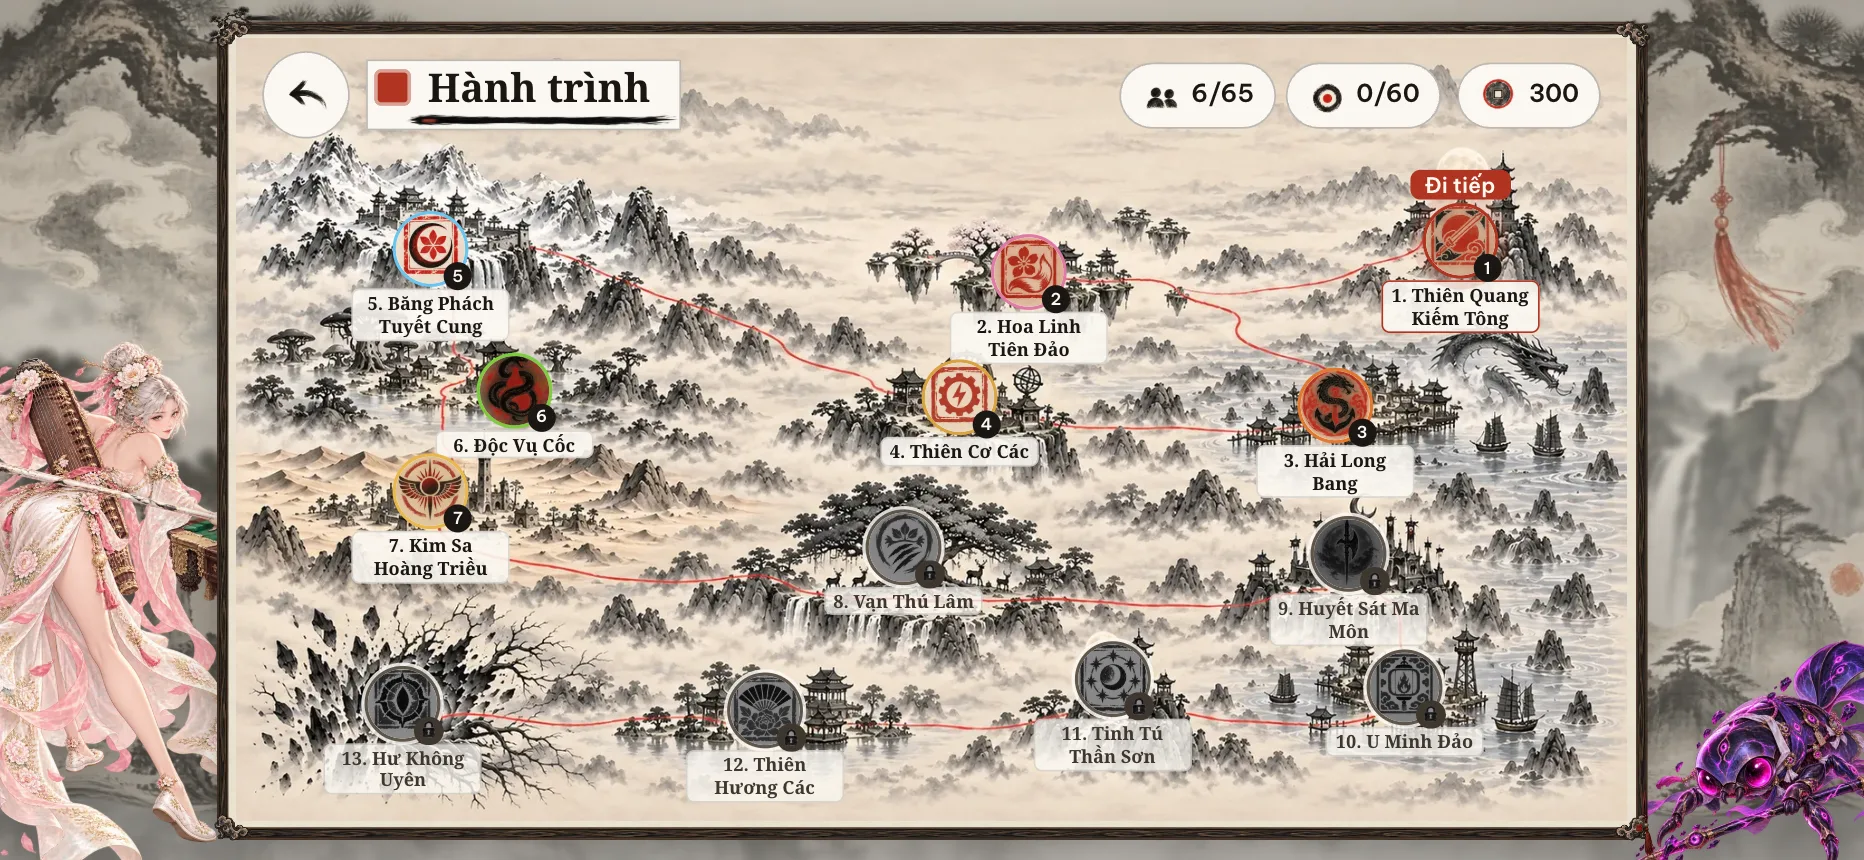
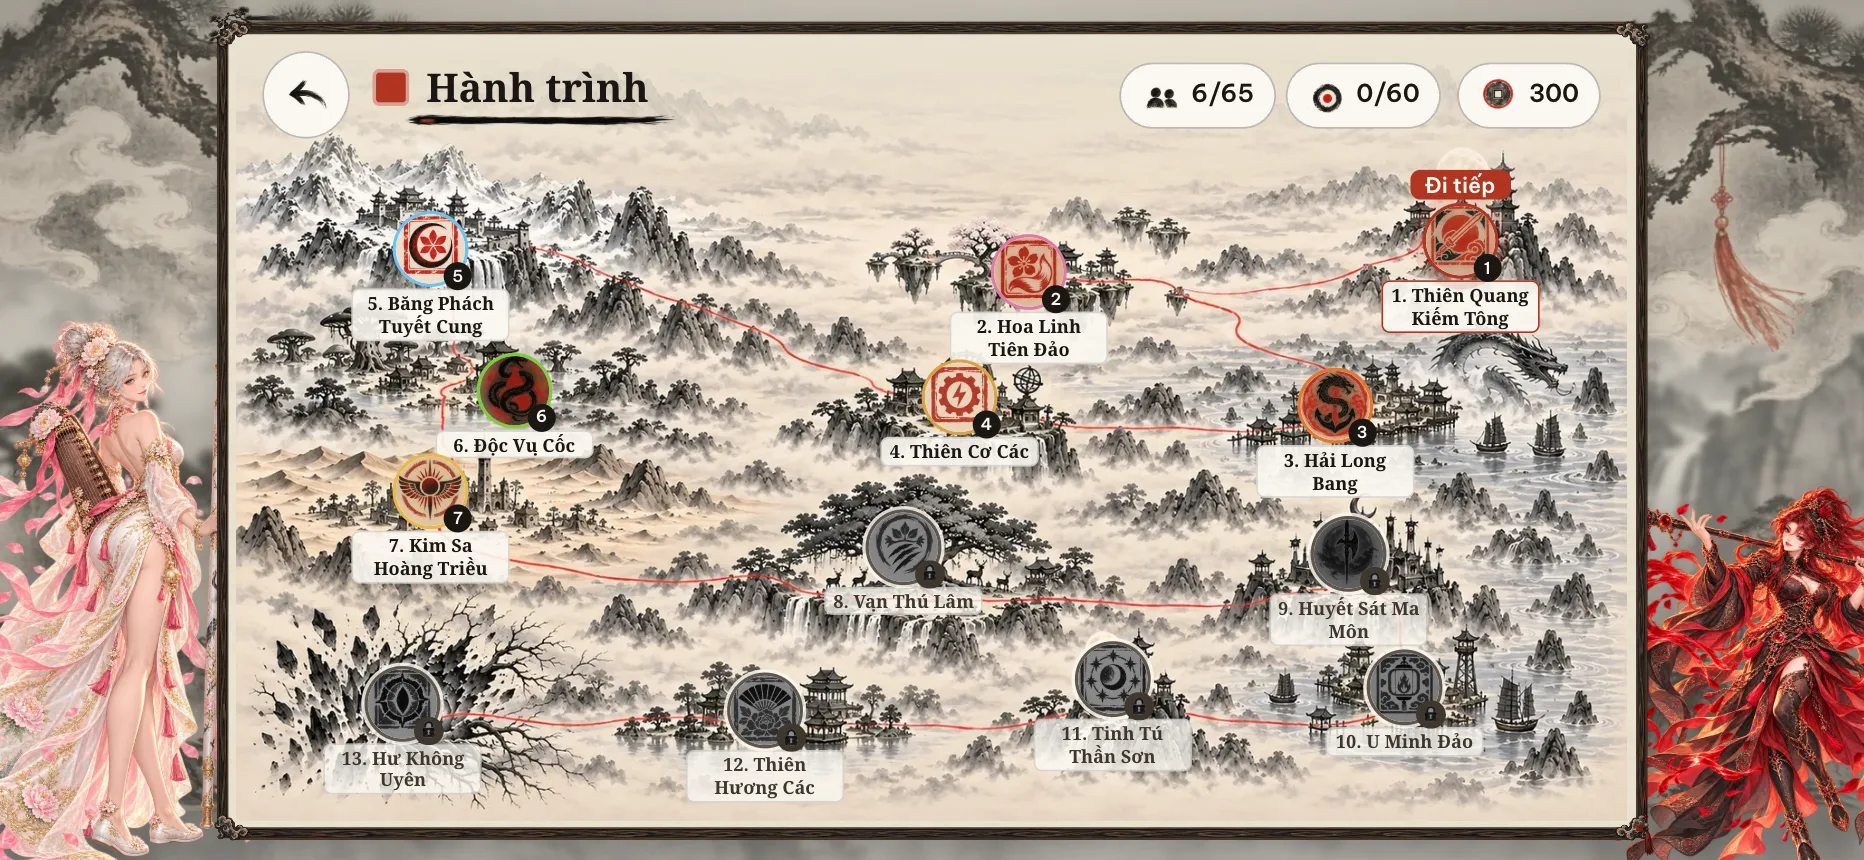
fix(journey): melt the map's sky into paper instead of plating the title
The solid title plate fixed the broken background declaration but looked
like no other screen, where titles sit bare on the page paper. A gradient
now dissolves the painting's top into --frame, so the seal, brush ribbon
and title read exactly like every other menu while the map stays full
bleed. The scrim sits under the pins and never blocks them.

diff --git a/src/styles/skin.css b/src/styles/skin.css
@@ -437,10 +437,13 @@
 .journey-map { isolation: isolate; }
 .journey-art { object-fit: cover; }
 .screen.journey > .topbar { position: relative; z-index: 2; padding: 8px 16px 0; }
-.screen.journey > .topbar .tb-title {
-  background: var(--sheet) url('/art/ui/frame/ribbon.webp') 22px bottom / calc(100% - 22px) 11px no-repeat;
-  border: 1.5px solid var(--line-2);
-  box-shadow: var(--sh-1);
+/* The paper scrim sits under the pins (z 1) and never blocks them. */
+.journey-map::after {
+  content: '';
+  position: absolute;
+  inset: 0;
+  pointer-events: none;
+  background: linear-gradient(var(--frame), color-mix(in srgb, var(--frame) 60%, transparent) 9%, transparent 21%);
 }
 
 /* Compact power ruler: reserve real travel instead of squeezing a wide tank. */

diff --git a/docs/decisions/journey-map.md b/docs/decisions/journey-map.md
@@ -42,8 +42,10 @@ Hai vết còn sót sau lần vẽ lại:
   màu giấy, rồi vẽ lại nét đỏ gốc lên trên. Đường nổi trên mọi nền mà vẫn đọc như khoảng chừa giấy
   của tranh, không phải hiệu ứng sáng.
 - Nền tiêu đề từ đầu bị lỗi cú pháp CSS: màu đặt ở layer đầu của `background` shorthand khiến cả
-  khai báo vô hiệu, tiêu đề thực chất không có nền nên chìm vào tranh. Sửa cú pháp, dùng nền giấy
-  đặc với viền đậm và bóng nhẹ, cùng công thức với nút và chip của thanh trên.
+  khai báo vô hiệu, tiêu đề thực chất không có nền nên chìm vào tranh. Không dùng tấm nền riêng cho
+  tiêu đề (lệch với mọi màn khác, nơi tiêu đề nằm trần trên giấy); thay vào đó, phần trên tranh được
+  pha dần thành màu giấy của trang bằng một scrim chìm dưới mốc, nên tiêu đề, triện son và nét bút
+  đọc như trên mọi màn hình khác.
 
 ## Phương án bị loại
 
